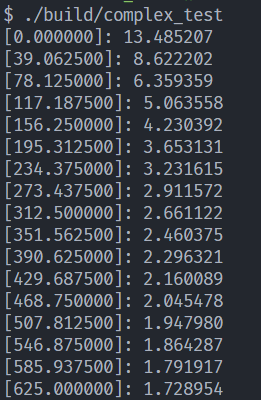
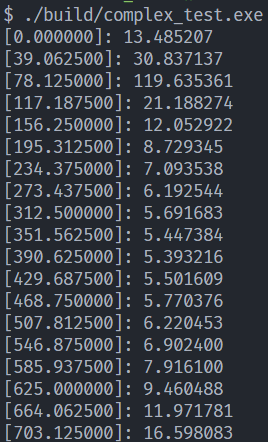
修正复数测试案例

diff --git a/complex_test.c b/complex_test.c
@@ -18,8 +18,8 @@ int main(const int argc, const char** argv)
     for (int i = 0;i < N;i++)
     {
         double arg = 2 * M_PI * i / FS;
-        input[i].real = sin(70 * arg) + sin(800 * arg) + sin(2200 * arg);//I路数据
-        input[i].image = cos(70 * arg) + cos(800 * arg) + cos(2200 * arg);//Q路数据
+        input[i].real = cos(70 * arg) + cos(800 * arg) + cos(2200 * arg);//I路数据
+        input[i].image = sin(70 * arg) + sin(800 * arg) + sin(2200 * arg);//Q路数据
     }
 
     Complex_t out[N];
